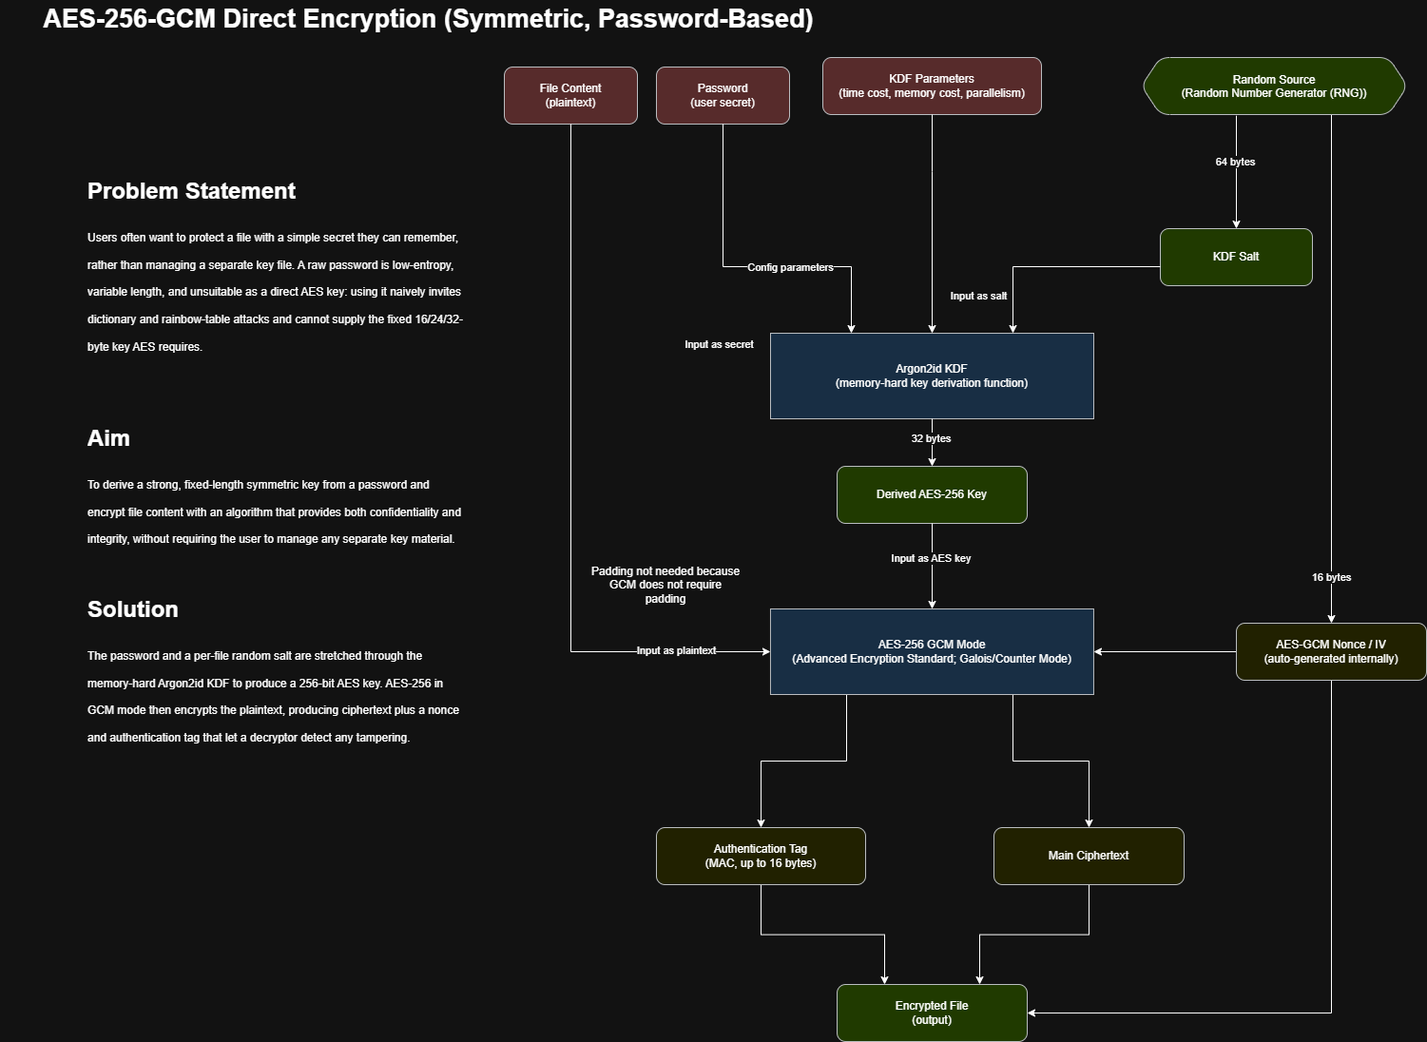
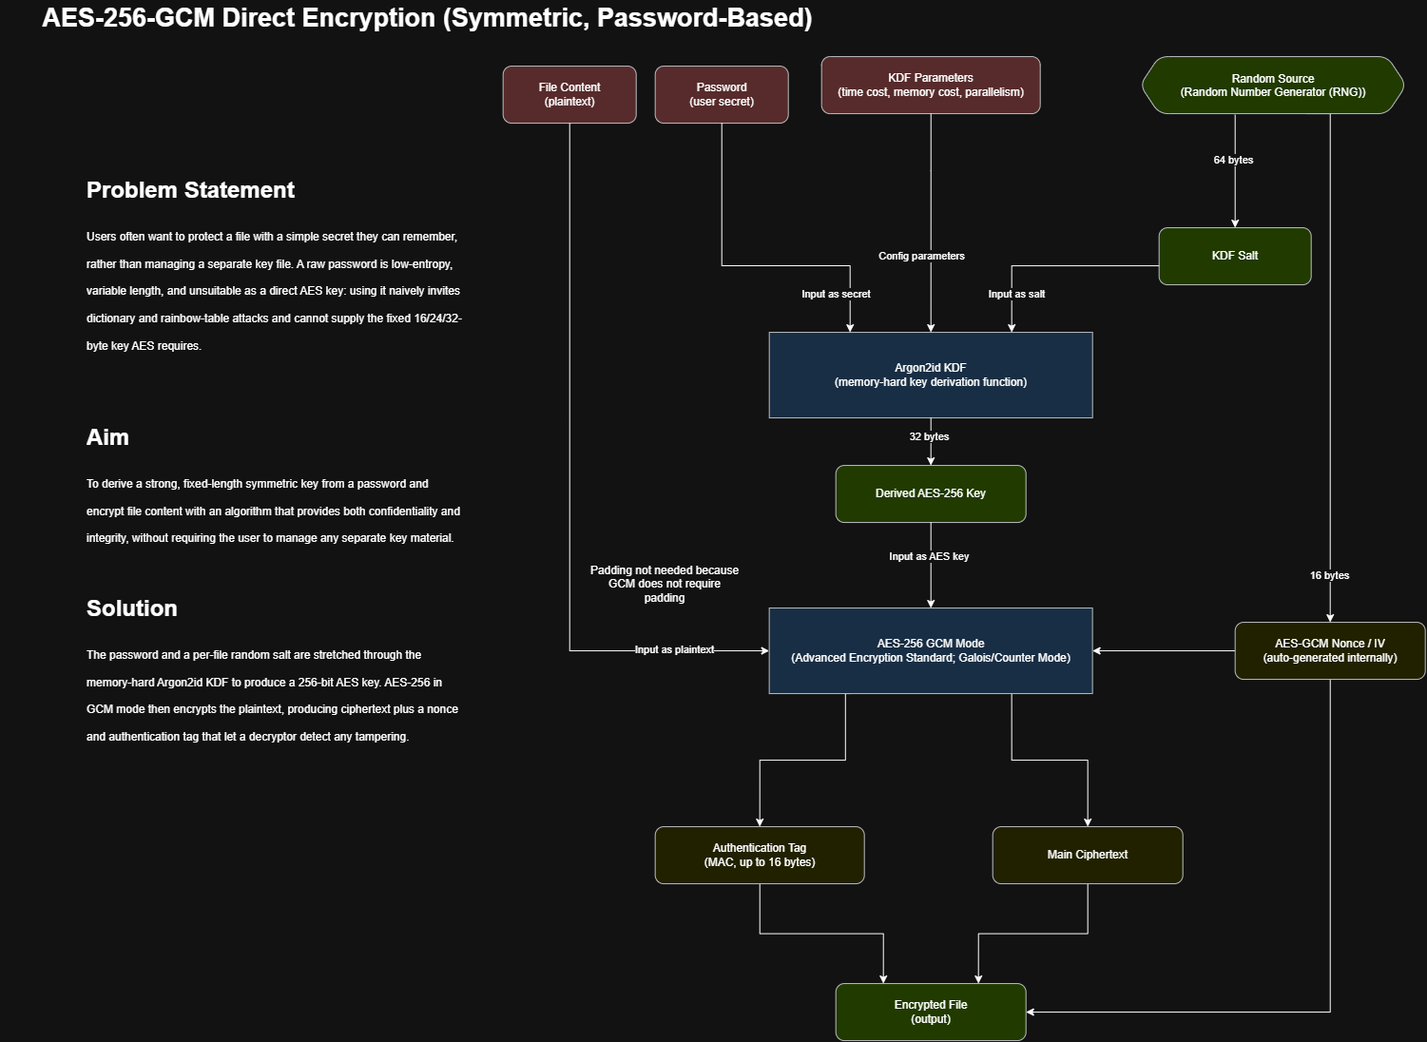
Enhanced documentations and fixed minor bugs in code

diff --git a/src/ghostbytes/gui/gui.py b/src/ghostbytes/gui/gui.py
@@ -1386,25 +1386,43 @@ class App(ctk.CTk):
         row += 1
         ctk.CTkSegmentedButton(
             page,
-            values=["Sign", "Verify"],
+            values=[
+                "Sign",
+                "Verify"],
             variable=mode_var,
             fg_color=THEME["box_color"],
             selected_color=ACCENT,
             selected_hover_color=ACCENT_HOVER,
             unselected_color=THEME["box_color"],
             text_color=THEME["content_text"],
-            command=lambda _value: refresh()).grid(
-            row=row, column=0, columnspan=2, sticky="ew")
+            height=38,
+            font=self._font(
+                13,
+                "bold"),
+            command=lambda v: refresh()).grid(
+                row=row,
+                column=0,
+                columnspan=2,
+            sticky="ew")
         row += 1
 
-        self._field_label(page, row, "Algorithm")
-        row += 1
-        algorithm_var, _ = self._option(page, row, ["RSA", "ML-DSA"])
+        self._section(page, row, "Files")
         row += 1
         self._field_label(page, row, "File")
         row += 1
         file_entry = self._entry(page, row, "File to sign or verify")
         self._file_row(page, row, file_entry)
+        row += 1
+
+        self._section(page, row, "Protection")
+        row += 1
+        self._field_label(page, row, "Algorithm")
+        row += 1
+        algorithm_var, _ = self._option(
+            page,
+            row,
+            ["RSA", "ML-DSA"],
+            command=lambda _value: refresh())
         row += 1
         self._field_label(page, row, "Key file")
         row += 1
@@ -1415,18 +1433,75 @@ class App(ctk.CTk):
         row += 1
         pass_entry = self._entry(page, row, show="•")
         row += 1
+
+        self._section(page, row, "Output")
+        row += 1
         self._field_label(page, row, "Signature file")
         row += 1
         signature_entry = self._entry(page, row, "Detached signature file")
         signature_browse = self._file_row(page, row, signature_entry, save=True)
         row += 1
+
+        signing_advanced = ctk.CTkFrame(page, fg_color="transparent")
+        signing_advanced.grid(
+            row=row,
+            column=0,
+            columnspan=2,
+            sticky="ew",
+            pady=(8, 4))
+        signing_advanced.grid_columnconfigure(0, weight=1)
+        signing_advanced_inner = ctk.CTkFrame(
+            signing_advanced,
+            fg_color=ACCENT_TINT,
+            border_width=1,
+            border_color=ACCENT_BORDER,
+            corner_radius=THEME["corner_rad"])
+        signing_advanced_inner.grid_columnconfigure(0, weight=1)
+        signing_advanced_inner.grid_columnconfigure(1, weight=1)
+        signing_advanced_state = {"open": False}
+        signing_hash_var, _ = self._option_grid(
+            signing_advanced_inner,
+            0,
+            AVAIL_HASH_STR,
+            label="Hash function")
+
+        def toggle_signing_advanced():
+            signing_advanced_state["open"] = not signing_advanced_state["open"]
+            if signing_advanced_state["open"]:
+                signing_advanced_inner.grid(
+                    row=1, column=0, sticky="ew", pady=(8, 0))
+                signing_advanced_button.configure(
+                    text="▾  Advanced settings (RSA signature fields)")
+            else:
+                signing_advanced_inner.grid_forget()
+                signing_advanced_button.configure(
+                    text="▸  Advanced settings (RSA signature fields)")
+
+        signing_advanced_button = ctk.CTkButton(
+            signing_advanced,
+            text="▸  Advanced settings (RSA signature fields)",
+            anchor="w",
+            fg_color="transparent",
+            hover_color=THEME["box_color"],
+            text_color=ACCENT,
+            font=self._font(12, "bold"),
+            command=toggle_signing_advanced)
+        signing_advanced_button.grid(row=0, column=0, sticky="ew")
+        signing_advanced_inner.grid_remove()
+        row += 1
+
         btn, bar, status = self._run_row(page, row, "Sign", None)
 
         def refresh(*_):
             verifying = mode_var.get() == "Verify"
+            rsa_selected = algorithm_var.get() == "RSA"
             btn.configure(text="Verify" if verifying else "Sign")
             pass_entry.configure(state="disabled" if verifying else "normal")
             signature_browse.configure(state="normal")
+            if rsa_selected:
+                signing_advanced.grid()
+            else:
+                signing_advanced.grid_remove()
 
         def do_run():
             file_path = file_entry.get().strip()
@@ -1445,14 +1520,22 @@ class App(ctk.CTk):
                     key = file.read()
                 if mode_var.get() == "Sign":
                     signature = wr.sign_message(
-                        algorithm_var.get(), key, message, pass_entry.get() or None)
+                        algorithm_var.get(),
+                        key,
+                        message,
+                        pass_entry.get() or None,
+                        signing_hash_var.get())
                     with open(signature_path, "wb") as file:
                         file.write(signature)
                     return True
                 with open(signature_path, "rb") as file:
                     signature = file.read()
                 return wr.verify_signature(
-                    algorithm_var.get(), key, message, signature)
+                    algorithm_var.get(),
+                    key,
+                    message,
+                    signature,
+                    signing_hash_var.get())
 
             def on_success(result):
                 if mode_var.get() == "Sign":
@@ -2803,15 +2886,15 @@ class App(ctk.CTk):
             if state["open"]:
                 inner.grid(row=1, column=0, sticky="ew", pady=(8, 0))
                 btn.configure(
-                    text="▾  Advanced settings (all CryptoConfig fields)")
+                    text="▾  Advanced settings")
             else:
                 inner.grid_forget()
                 btn.configure(
-                    text="▸  Advanced settings (all CryptoConfig fields)")
+                    text="▸  Advanced settings")
 
         btn = ctk.CTkButton(
             wrap,
-            text="▸  Advanced settings (all CryptoConfig fields)",
+            text="▸  Advanced settings",
             anchor="w",
             fg_color="transparent",
             hover_color=THEME["box_color"],

diff --git a/src/ghostbytes/gui/wrappers.py b/src/ghostbytes/gui/wrappers.py
@@ -317,7 +317,12 @@ def verify_keypair(public_key, private_key, passphrase=None):
     return verify_rsa_keypair(public_key, private_key, passphrase)
 
 
-def sign_message(algorithm, private_key, message, passphrase=None):
+def sign_message(
+    algorithm,
+    private_key,
+    message,
+    passphrase=None,
+    hash_func_str=AVAIL_HASH_STR[0]):
     """Sign a byte message with RSA-PSS or ML-DSA."""
     if not isinstance(message, bytes):
         raise invalid_argument("message", "must be bytes")
@@ -328,7 +333,9 @@ def sign_message(algorithm, private_key, message, passphrase=None):
         if key_type != "RSA":
             raise invalid_argument("key", "must be an RSA private key")
         key = _rsa.import_key(private_key, passphrase or None)
-        return _primitives.rsa_sign(CryptoConfig(), key, message)
+        config = CryptoConfig()
+        config.hash_func = _hash_function(hash_func_str)
+        return _primitives.rsa_sign(config, key, message)
     if algorithm == "ML-DSA":
         if key_type != "ML-DSA":
             raise invalid_argument("key", "must be an ML-DSA private key")
@@ -339,7 +346,12 @@ def sign_message(algorithm, private_key, message, passphrase=None):
     raise invalid_argument("algorithm", "is unsupported")
 
 
-def verify_signature(algorithm, public_key, message, signature):
+def verify_signature(
+    algorithm,
+    public_key,
+    message,
+    signature,
+    hash_func_str=AVAIL_HASH_STR[0]):
     """Verify a byte message signature with RSA-PSS or ML-DSA."""
     if not isinstance(message, bytes) or not isinstance(signature, bytes):
         raise invalid_argument("message and signature", "must be bytes")
@@ -348,12 +360,21 @@ def verify_signature(algorithm, public_key, message, signature):
         if key_type != "RSA":
             raise invalid_argument("key", "must be an RSA public key")
         key = _rsa.import_key(public_key)
-        return _primitives.rsa_verify(CryptoConfig(), key, message, signature)
+        config = CryptoConfig()
+        config.hash_func = _hash_function(hash_func_str)
+        return _primitives.rsa_verify(config, key, message, signature)
     if algorithm == "ML-DSA":
         if key_type != "ML-DSA":
             raise invalid_argument("key", "must be an ML-DSA public key")
         return _dilithium.verify(public_key, message, signature)
     raise invalid_argument("algorithm", "is unsupported")
+
+
+def _hash_function(name):
+    try:
+        return AVAIL_HASH[AVAIL_HASH_STR.index(name)]
+    except ValueError as error:
+        raise invalid_argument("hash_func", "is unsupported") from error
 
 
 def rsa_key_info(key_data, passphrase=None):

diff --git a/README.md b/README.md
@@ -7,7 +7,7 @@ It features symmetrical, asymmetrical (public / private key), and post-quantum c
 
 ## Aim
 
-The goal of this project is to introduce everyday users and beginner developers to the fundamentals of **cryptography**, **data privacy**, **confidentiality in file sharing**. 
+The goal of this project is to introduce everyday users and beginner developers to the fundamentals of **cryptography**, **data privacy**, **confidentiality in file sharing**.
 
 In today's digital world, privacy isn't just for tech experts. it’s something everyone deserves. This repository aims to break down complex security concepts into simple, practical examples so anyone (even if you just learned your first lines of Python!) can understand how online privacy works and why it matters.
 
@@ -18,7 +18,8 @@ Ghostbytes implemented a range of security features ranging from encryption, key
 - **🔒 AES-256 GCM Mode Encryption with Authentication Tag (Integrity and Confidentiality)**: Encrypt files while providing integrity verification and authenticated encryption.
 - **🔒 RSA Asymmetric Encryption / ML-KEM Post-Quantum Cryptography**: The _Module-Lattice-Based Key-Encapsulation Mechanism_ is implemented as one of the asymmetric encryption options along with RSA.
 - **🔒 Envelope-Based Asymmetric Encryption**: Plaintext is encrypted using AES-256-GCM with a symmetric master key, which is then encapsulated and protected using asymmetric encryption to eliminate the message-size limitations of direct asymmetric encryption. (See [docs/cryptography.md](docs/cryptography.md) for more details)
-- **🔑 Generate, Verify, and View RSA / ML-KEM Key Pair**: Both asymmetric encryption algorithms (_ML-KEM_ and _RSA_) have a key-generation function within the program. The key information can also be viewed and verified.
+- **🔑 Generate, Verify, and View RSA / ML-KEM / ML-DSA Keys**: Encryption keys and post-quantum signature keys can be generated, inspected, and verified within the program.
+- **✍ RSA-PSS and ML-DSA Signatures**: Create and verify detached signatures for files using RSA or ML-DSA. ML-DSA-44, ML-DSA-65, and ML-DSA-87 are supported.
 - **# Fully-Featured Hashing Toolkit**: Major hashing algorithms (`SHA256`, `SHA512`, `SHA3_256`, `SHA3_512`, `BLAKE2b`, `BLAKE2s`, and `md5`) are implemented with an extension feature to copy output to checksum file.
 - **🎲 Random Number Generator (with multiple random sources)**: Ghostbytes also features a function to generate passwords and random data from multiple random sources.
 - **🗑 Secure Delete (File Shredding)**: Secure delete or file shredding is implemented with multiple overwrite patterns (including `random`, `zero`, `one`, and `gutmann`)
@@ -32,6 +33,8 @@ Ghostbytes implemented a range of security features ranging from encryption, key
 | Hybrid RSA-OAEP     | Encrypts file data with AES-256-GCM and protects the AES key using RSA-OAEP, avoiding RSA message-size limitations.                  | PyCryptodome                                                       | Implemented in [oaep_extension.py](src/ghostbytes/crypto/oaep_extension.py#L18). A random AES-256 key is generated for each message and wrapped with RSA-OAEP.                                                              |
 | ML-KEM-768          | Post-quantum key-encapsulation mechanism offering NIST Security Category 3 protection.                                               | `cryptography` (`cryptography.hazmat.primitives.asymmetric.mlkem`) | Key generation, encapsulation, decapsulation, and hybrid AES encryption are implemented in [kyber.py](src/ghostbytes/crypto/kyber.py#L31).                                                                                  |
 | ML-KEM-1024         | Post-quantum key-encapsulation mechanism offering NIST Security Category 5 protection.                                               | `cryptography`                                                     | Supported alongside ML-KEM-768 through the algorithm mapping in [kyber.py](src/ghostbytes/crypto/kyber.py#L212).                                                                                                            |
+| RSA-PSS             | RSA probabilistic digital signature scheme for detached signatures.                                                                  | PyCryptodome (`Crypto.Signature.pss`)                              | Implemented by `rsa_sign()` and `rsa_verify()` in [primitives.py](src/ghostbytes/crypto/primitives.py).                                                                                                                     |
+| ML-DSA-44 / 65 / 87 | Post-quantum digital signature algorithm standardized by FIPS 204.                                                                   | `cryptography` (`cryptography.hazmat.primitives.asymmetric.mldsa`) | Key generation, signing, verification, and serialization are implemented in [dilithium.py](src/ghostbytes/crypto/dilithium.py).                                                                                             |
 | Argon2id            | Memory-hard password-based key derivation function used to derive 256-bit encryption keys.                                           | `argon2-cffi` (`argon2.low_level`)                                 | Implemented by `derive_key()` in [primitives.py](src/ghostbytes/crypto/primitives.py#L205), using configurable salt, time cost, memory cost, and parallelism.                                                               |
 | SHA-256             | Secure cryptographic hash function producing a 256-bit digest.                                                                       | PyCryptodome (`Crypto.Hash.SHA256`)                                | Registered in [config.py](src/ghostbytes/crypto/config.py#L13) and used by the file hashing and benchmarking tools.                                                                                                         |
 | SHA-512             | Secure cryptographic hash function producing a 512-bit digest.                                                                       | PyCryptodome (`Crypto.Hash.SHA512`)                                | Registered in [config.py](src/ghostbytes/crypto/config.py#L13) and used by the file hashing and benchmarking tools.                                                                                                         |

diff --git a/docs/configuration.md b/docs/configuration.md
@@ -7,6 +7,7 @@ The following table documents every module-level constant and the `CryptoConfig`
 | Constant        | `AVAIL_HASH`                                   | `SHA3_512`, `SHA3_256`, `SHA512`, `SHA256`, `BLAKE2b`, `BLAKE2s`, `md5`                                                                                                                                                          | Hash implementations accepted by the configuration. The order corresponds to `AVAIL_HASH_STR`.                                                                                                                                                          |
 | Constant        | `AVAIL_HASH_STR`                               | `sha3_512`, `sha3_256`, `sha512`, `sha256`, `blake2b`, `blake2s`, `md5`                                                                                                                                                          | String names used in the GUI and serialized `.conf` files.                                                                                                                                                                                              |
 | Constant        | `AVAIL_ALG`                                    | `aes`, `rsa-oaep`, `extended_oaep`, `ML-KEM-768`, `ML-KEM-1024`                                                                                                                                                                  | Algorithm identifiers accepted by `CryptoConfig` and configuration import.                                                                                                                                                                              |
+| Constant        | `AVAIL_SIGN_ALG`                               | `RSA-PSS`, `ML-DSA-44`, `ML-DSA-65`, `ML-DSA-87`                                                                                                                                                                                 | Signing algorithms exposed by the signing tools and benchmark. These are not `CryptoConfig` encryption algorithms.                                                                                                                                      |
 | Constant        | `AVAIL_RANDOM_STR`                             | `os.urandom`, `cryptodome_random`, `random lib (python)`, `secrets_random`, `/dev/urandom (*nux only)`, `/dev/random (*nux only)`, `/dev/urandom (dd, out file only) (*nux only)`, `/dev/random (dd, out file only) (*nux only)` | Random-source names accepted by the configuration. Some entries are Unix-only.                                                                                                                                                                          |
 | Constant        | `ENCRYPTED_SUFFIX`                             | `.enc`                                                                                                                                                                                                                           | Filename suffix used for encrypted output files.                                                                                                                                                                                                        |
 | Constant        | `RSA_KEY_OUT_FORMAT`                           | `PEM`, `DER`, `OpenSSH`                                                                                                                                                                                                          | RSA key serialization formats exposed by the application.                                                                                                                                                                                               |
@@ -29,3 +30,5 @@ The following table documents every module-level constant and the `CryptoConfig`
 | Class method    | `CryptoConfig.import_file(path)`               | Returns `CryptoConfig`                                                                                                                                                                                                           | Reads and validates a `[CryptoConfig]` section, restores the saved settings, decodes the Base64 salt, and returns a configuration instance.                                                                                                             |
 
 The encryptor and decryptor must use matching values for the relevant configuration fields, especially `algorithm`, `store_iv`, `mac_len`, the KDF settings, and `kdf_salt`.
+
+The `ML-DSA` signature algorithm does not use `CryptoConfig`, while the RSA signature algorithm uses only the `hash_func` field in `CryptoConfig`

diff --git a/docs/getting-started.md b/docs/getting-started.md
@@ -38,10 +38,19 @@ To generate a ML-KEM or RSA key pair, navigate to `Generate Key Pair` and select
 
 Then, navigate to `Encrypt / Decrypt`, and select the target file to be encrypted, along with the `algorithm` and public key file (select private key file for decryption). Once the required inputs have been provided, execute the operation to complete the encryption or decryption process. Ensure that private keys are stored securely and are not shared with other users, as possession of the private key allows access to the protected data.
 
+## 5. Workflow Example 3: Digital Signatures
+
+To sign a file, open `Generate Key Pair` and select `RSA` or `ML-DSA`. For ML-DSA, choose `ML-DSA-44`, `ML-DSA-65`, or `ML-DSA-87` in the signature-key section. Save the private key securely and share only the public key.
+
+Open `Sign / Verify`, select `Sign`, choose the `RSA` or `ML-DSA` key family, then select the file, private key, and detached signature output path. Enter the private-key passphrase when required. The selected family must match the provided key; the key determines the concrete ML-DSA variant.
+
+To verify a signature, select `Verify`, choose the same key family, then provide the original file, matching public key, and detached signature file. Verification fails if the file, signature, or public key has changed.
+
 ## 6. Supporting Tools
 
 | Tool                        | Use it when you need to...                                                                         | First-use note                                                                                                                 |
 | --------------------------- | -------------------------------------------------------------------------------------------------- | ------------------------------------------------------------------------------------------------------------------------------ |
+| **Sign / Verify**           | Create or validate a detached RSA-PSS or ML-DSA signature.                                         | Use a private key to sign and the matching public key to verify; keep private keys confidential.                               |
 | **Hash File(s) (Checksum)** | Check whether a file or folder has changed, or compare a file with a checksum from another source. | Select the file or folder, choose a hash algorithm, and optionally save the result to a checksum file.                         |
 | **Random**                  | Generate random bytes for test data, salts, or other non-password output.                          | Choose a random source, set the output length, and save the generated data to a file.                                          |
 | **Password Generator**      | Create a strong random passphrase for password-based encryption.                                   | Generate the passphrase before starting encryption and store it securely; it cannot be recovered if lost.                      |

diff --git a/docs/README.md b/docs/README.md
@@ -4,9 +4,9 @@ This folder contains the project reference material for the desktop encryption a
 
 ## Documentation index
 
-- [Getting Started](getting-started.md) — first-run workflow, password-based example, key-based example, common problems, and next steps.
+- [Getting Started](getting-started.md) — first-run workflow, encryption, signing, key management, common problems, and next steps.
 - [Configuration](configuration.md) — full reference for `CryptoConfig`, supported algorithms, salts, KDF settings, hash selection, and import/export behavior.
-- [Cryptography](cryptography.md) — design overview of AES-GCM, RSA-OAEP, hybrid RSA, and ML-KEM encryption flows.
+- [Cryptography](cryptography.md) — design overview of AES-GCM, RSA-OAEP, hybrid RSA, ML-KEM encryption, RSA-PSS, and ML-DSA signatures.
 - [Architecture](architecture.md) — module boundaries, event flow, runtime structure, and extension points.
 
 ## Related project links

diff --git a/docs/cryptography.md b/docs/cryptography.md
@@ -14,6 +14,14 @@
 
 ![ML-KEM Encryption Diagram](img/mlkem_hybrid_encryption.png)
 
+# RSA-PSS Signatures
+
+![RSA signature diagram](img/rsa_signature.png)
+
+# ML-DSA Signatures
+
+![ML-DSA signature diagram](img/mldsa_signature.png)
+
 # File Shedding Diagram
 
 ![Shredding Diagram](img/secure_file_shredding.png)
